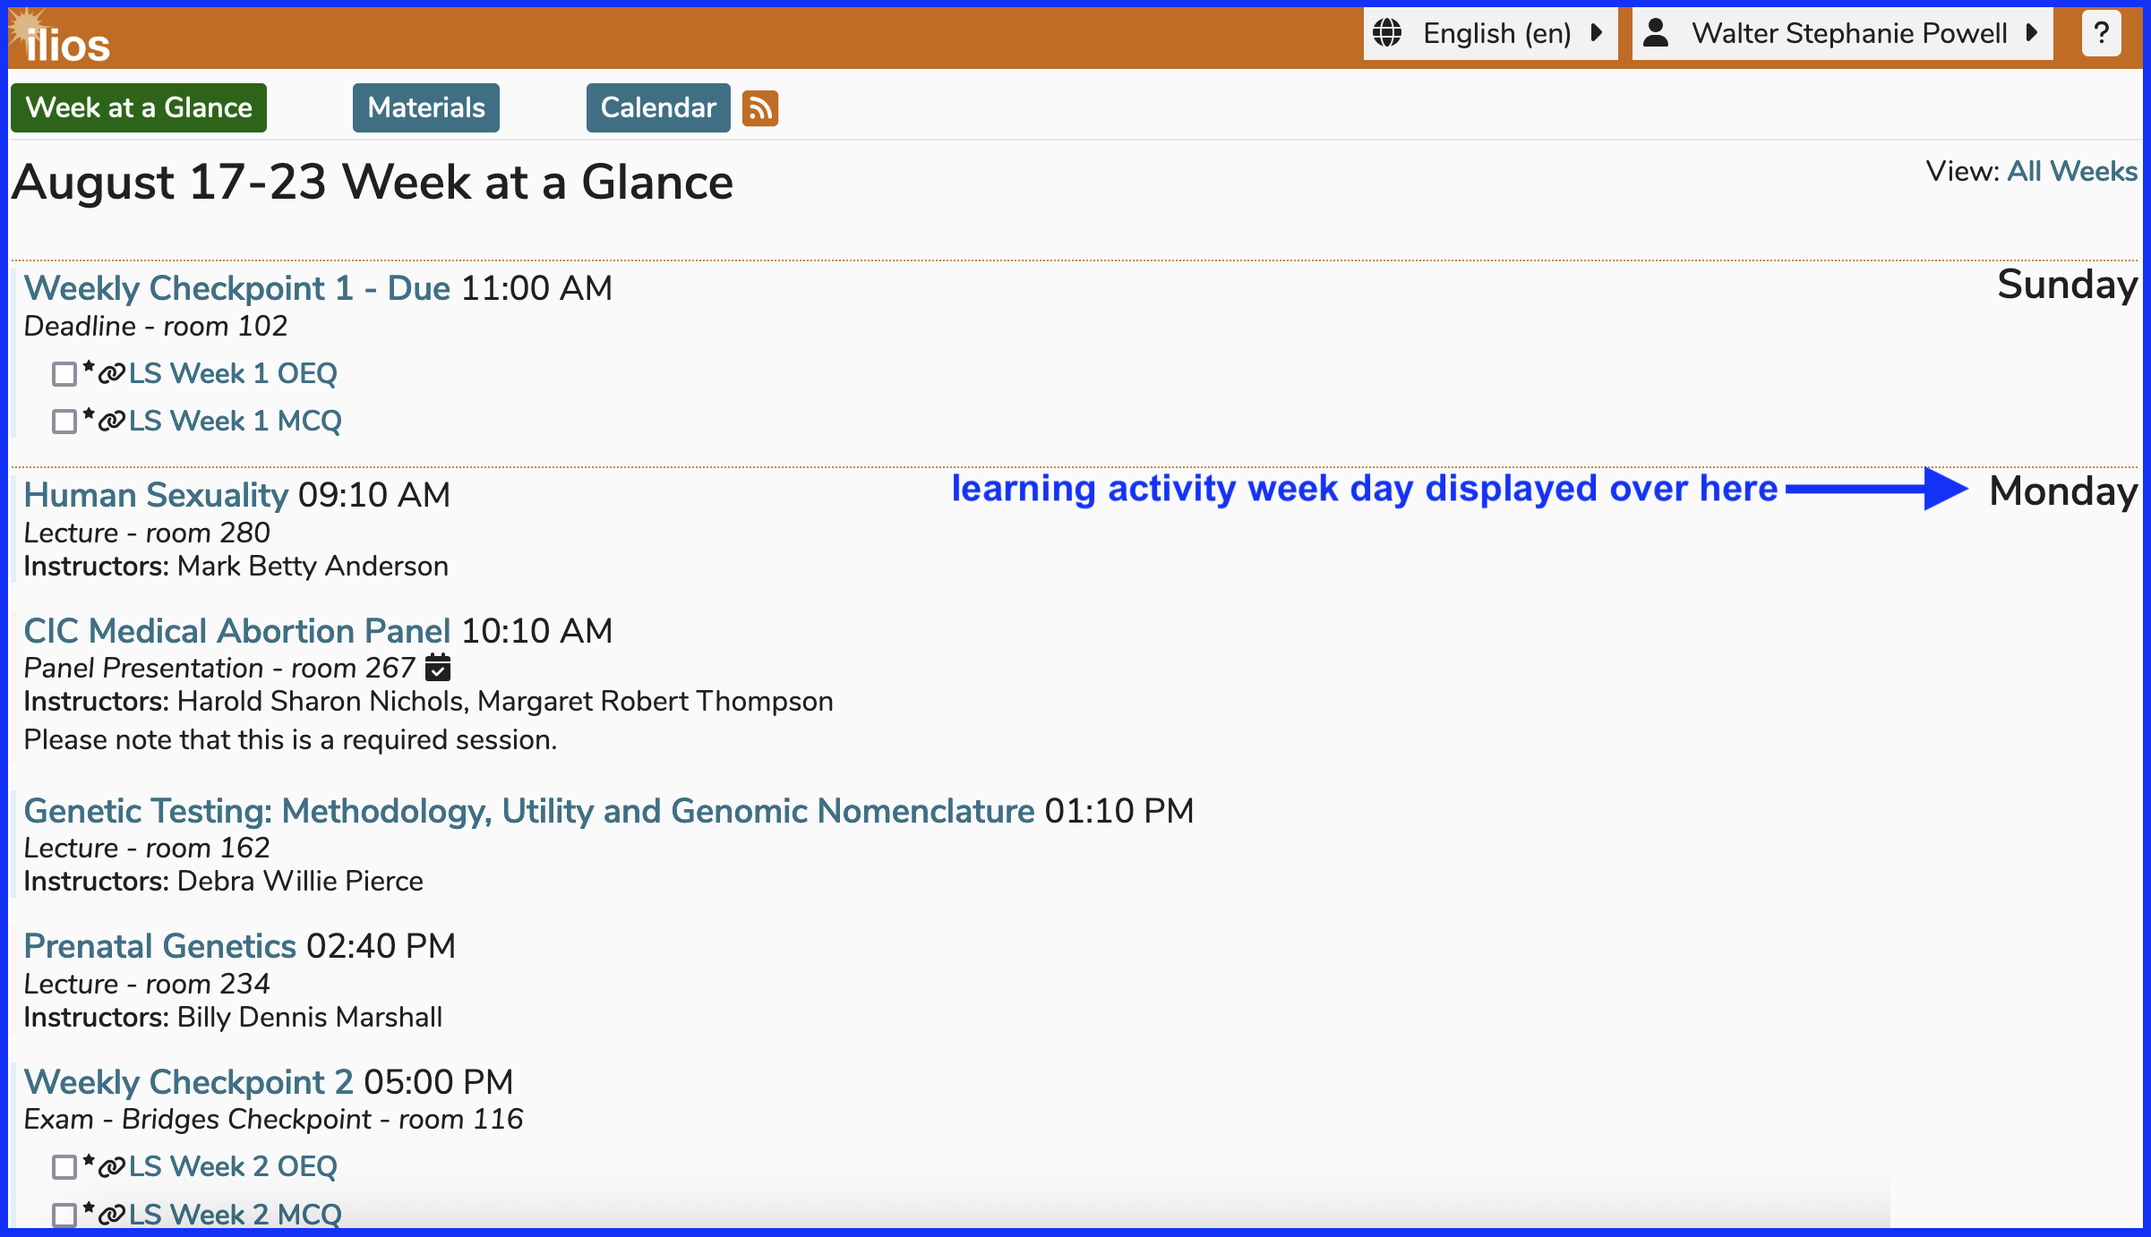
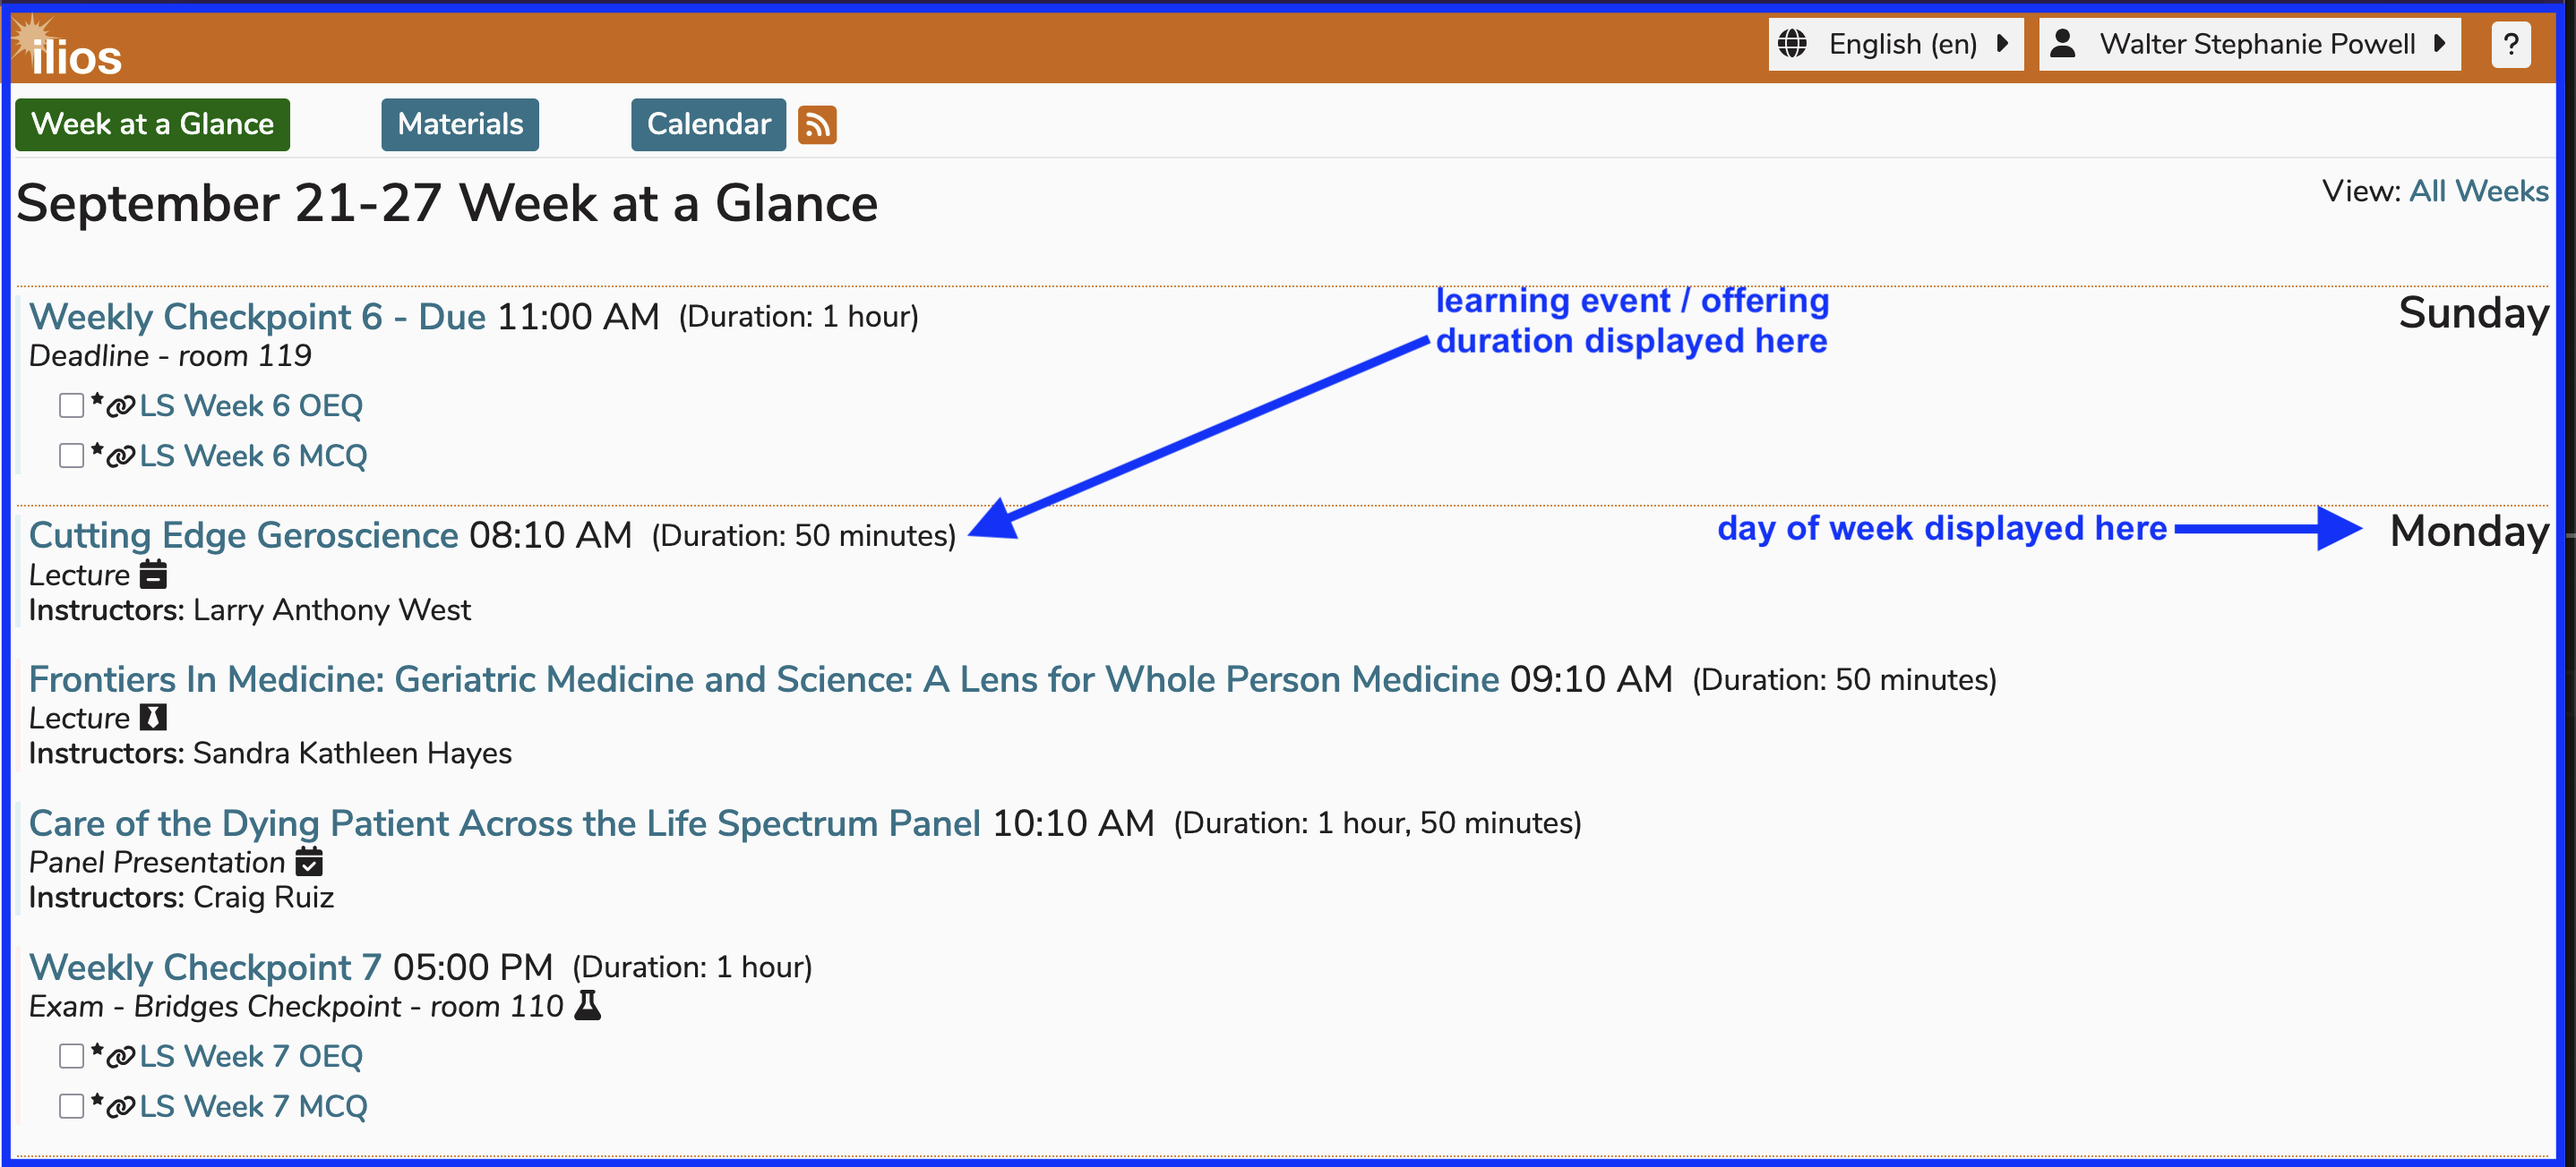
image replaced with newer version - a few text additions

diff --git a/dashboard/home.md b/dashboard/home.md
@@ -28,7 +28,7 @@ The view shown below is that of an Ilios user who also performs non-learner func
 
 ## Week at a Glance - Student View
 
-This next view will show a typical student's viewpoint into the system with no additional icons available from the Ilios flyout menu. Week at a Glance is their main focus with all weekly learning activities and materials available here. The day of the week of their weekly learning activities is shown over to the right. This will pin at the top of the screen as the screen is scrolled down as a navigational aid.
+This next view will show a typical student's viewpoint into the system with no additional icons available from the Ilios flyout menu. Week at a Glance is their main focus with all weekly learning activities and materials available here. The day of the week of their weekly learning activities is shown over to the right along with the duration as indicated. This will pin at the top of the screen as the screen is scrolled down as a navigational aid.
 
 <figure>
     <img src="../images/dashboard_home/week_at_a_glance_student_view.png" alt="week at a glance displayed - learner view">
